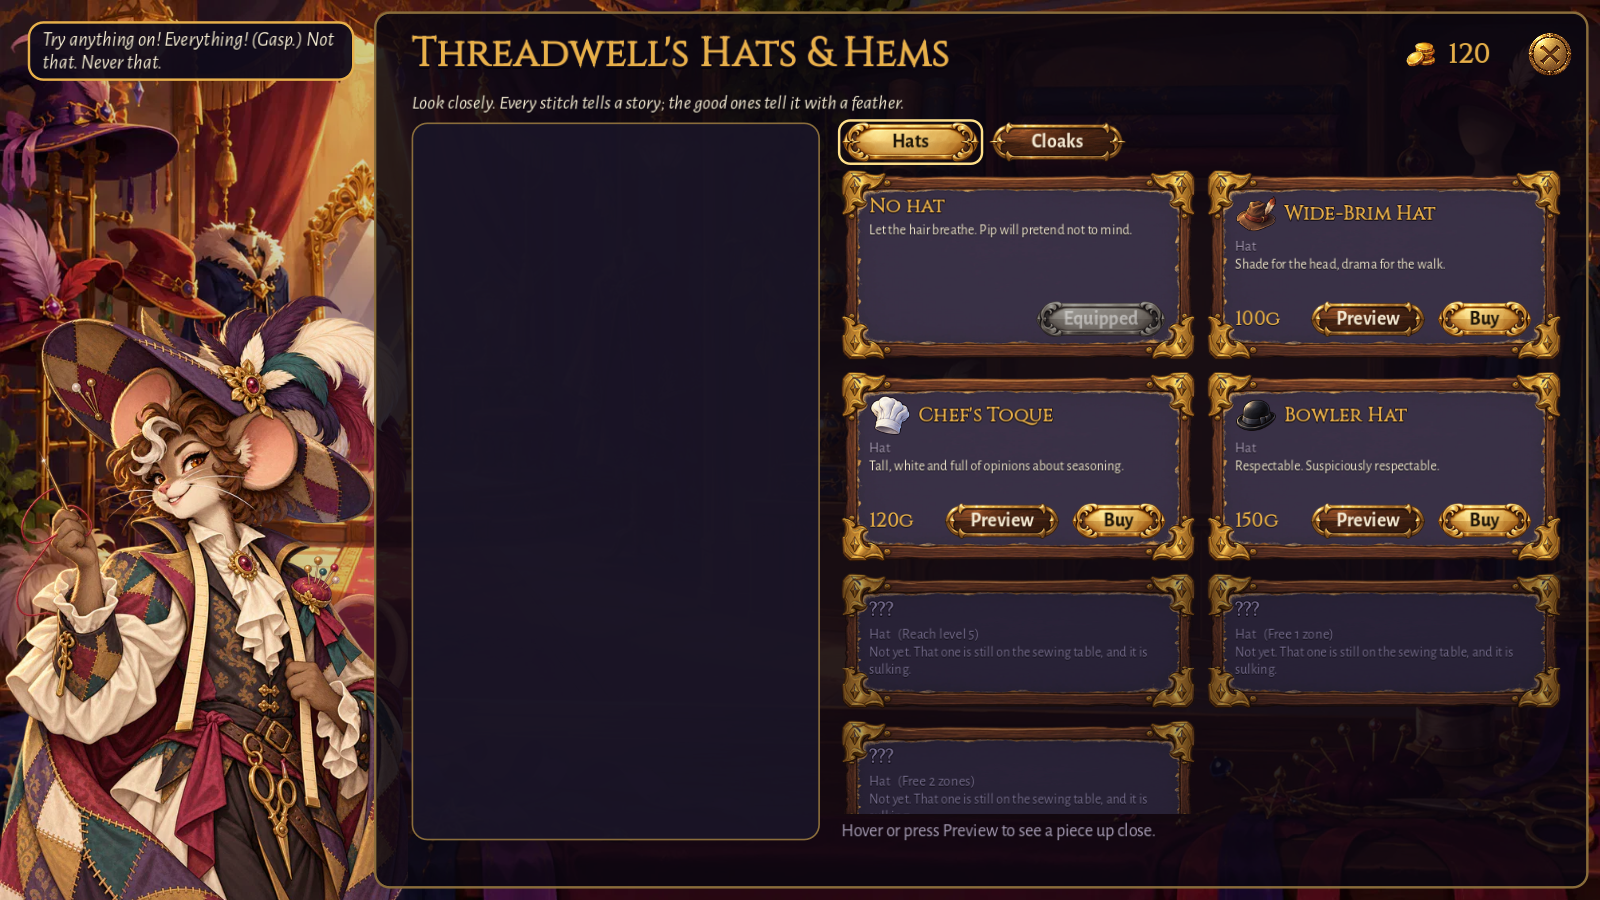
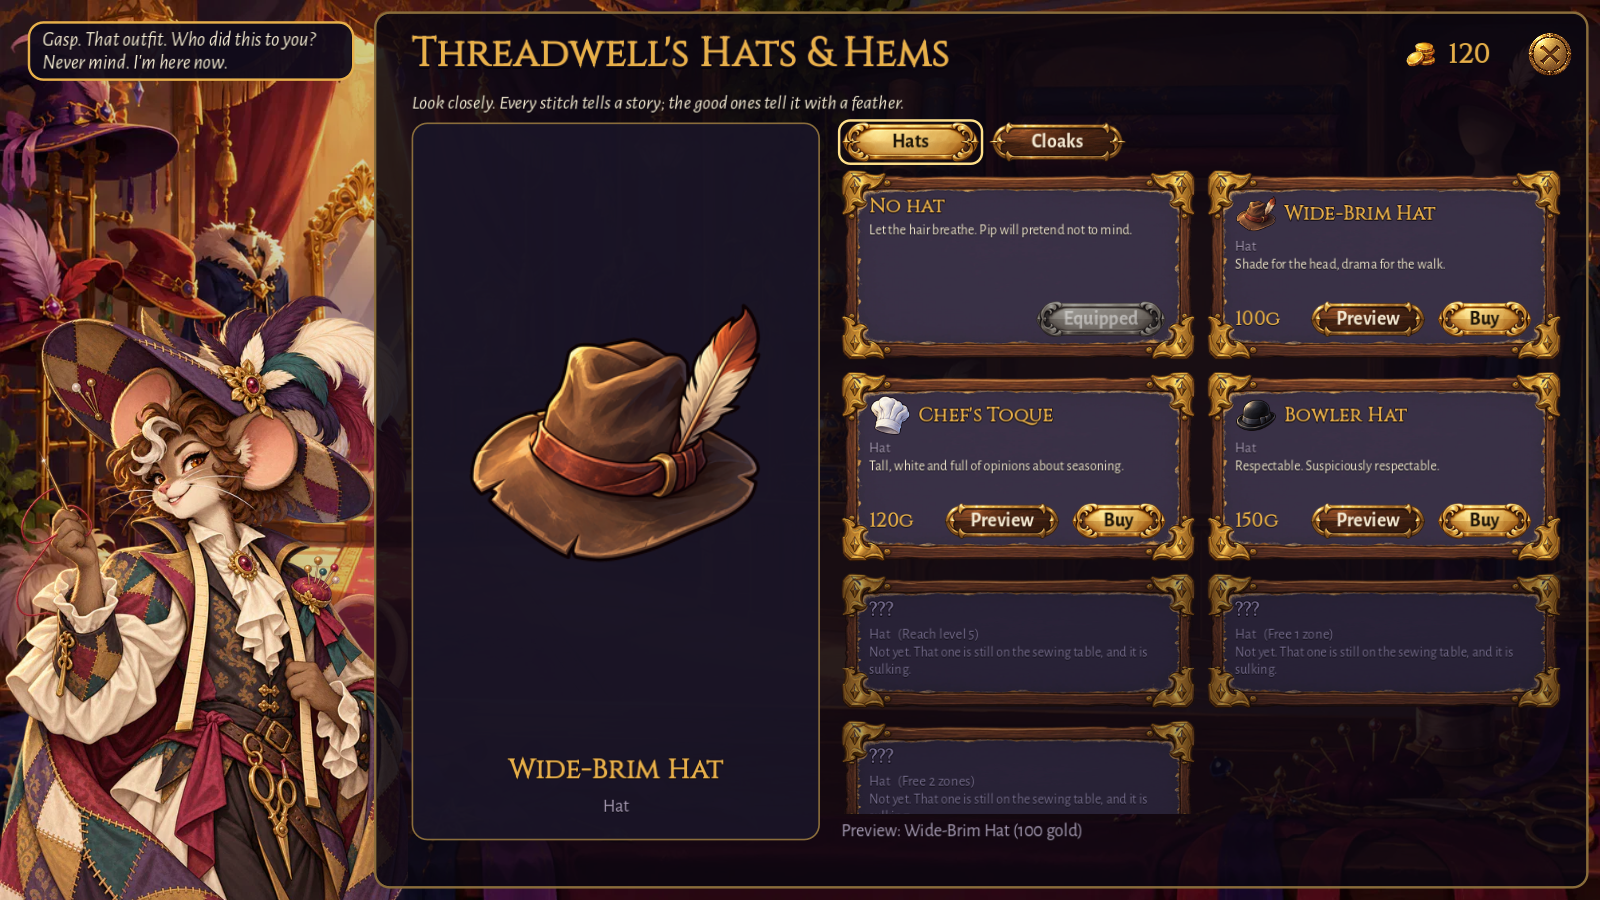
Fix pass Nov 4, Finish: critic runs, Pip preview never empty, report, inbox (13), progress

diff --git a/docs/overnight_report.md b/docs/overnight_report.md
@@ -1,0 +1,95 @@
+# Fix pass Nov 4 - report
+
+Brief: `docs/prompts/fixes_nov4.md` (playtest feedback round 1). Tag `pre-fixes-nov4`; commits `1b59529a..HEAD` on main.
+Decisions you may want to change: `docs/overnight_inbox.md`, section "Fix pass Nov 4". Shots: `docs/overnight_shots/nov4/`.
+Previous report: `docs/overnight/nov4/overnight_report_overnight_nov3.md`.
+
+**Tests:** full GUT suite green, run in foreground chunks (core 1,630, ui 221, world 465 + 1 old "did not assert", audio 92, root 299).
+**Export 0.5.4: not done** - the Godot editor (`title.tscn`) is open and C: has 1.4 GB free; `tools/export_windows.sh` stops on both
+(it needs Godot closed and ~2.5 GB). The version is bumped to 0.5.4 everywhere (project, export presets); see "To finish" below.
+
+## Part 1 - Battle rules
+
+| # | What | Done |
+|---|---|---|
+| 1.1 | **Peek is broken** | Peek was resolved by the engine on its own (it sorted the cards silently), so the player never chose. Now a Peek on your own turn **waits for you**: `GameState.peek_requests`, `peek_cards()`, `resolve_peek()`, `GameAction.PEEK`; the ability pauses and the rest of it ("then draw a card") runs after your choice (`AbilityRunner.PEEK_WAIT`). New `PeekPanel`: all N cards together (top card first), **Top / Bottom** per card, the first card sent Top is drawn next ("Top #1", "Top #2"), Reset, Done. Covers every Peek card: Amuse-Bouche, Consult the Cookbook, Sous Chef, Courier Pigeon, Cartographer's Table, Banquet Hall, Spice Bazaar. The AI and the look-ahead copies keep the automatic choice. Verified in a live duel (critic run: the card picked Top #1 was the one drawn). Tests `tests/core/game/test_peek_choice.gd` (6). |
+| 1.2 | **"Fresh Stitches"** | Renamed everywhere: the card field (`CardInstance.fresh_stitches`), glossary, keyword tooltip, the battle tooltip entry, design docs, tests and tools. Reminder `KeywordInfo.FRESH_STITCHES_REMINDER` = "Fresh Stitches: can't attack the turn it enters play." (shown when you click a unit that can't attack yet). Hustle units ignore it as before. The dialogue CSVs held the old phrase only in archived passes (`docs/dialogue/chatgpt_pass_oct21/`), not in game text. |
+| 1.3 | **Pre-placed enemy units** | A unit on the table before the duel keeps Fresh Stitches through its side's first turn (`CardInstance.placed_before_duel`, set by `GameState.mark_placed_before_duel` after the start-of-duel effects). Encounters: **Trophy Hall Honor Guard** (1 Militia), **The Doppelganger** (Sashimi Weenie, both rule sets), **Royal Staircase Guard** (3 Militia), **Colonel Casserole** (Sashimi Weenie), **Primm - Standardization** (4 Militia), and the **Arena presets** with enemy units (3 challenges). Units a setup makes ready on purpose (Flex, Elowen, the sim's allies) stay ready. |
+| 1.4 | **Endless Buffet buff** | **Cause:** the Colonel's fight had two rules both named "Field Rations" - the starting Weenie and a hidden "+1 attack" - and the badge row merges same-named rules into one badge, so only the Weenie showed while his units got zone +1/+1 plus +1/+0 = **+2/+1**. Not a double application (checked: Well Fed is on each seat exactly once). The hidden +1 attack is removed. **Well Fed is now +0/+1** (`ZoneEffects`), zone-wide as designed: both seats' Gourmand units, in every Buffet fight. The chip, tooltips and pre-fight text are generated from the modifier ("Gourmand units get +1 defense."); the flavour line now reads "A full belly is hard to knock over." Tests run every Buffet encounter of the catalogue plus the real gate battle. |
+| 1.5 | **Casserole didn't attack** | **Cause:** in the live game the attack search has a wall-clock budget (half of 500 ms). It scored "no attack" first, and on a slower machine the clock ran out after that one candidate, so a clearly winning swing was never weighed (the sims, which have no clock, always attacked - a probe over 24 Casserole games found no missed lethal there). Fix in `AICombat`: the attacking sets come first, "no attack" fifth, and at least 5 candidates are always scored (`MIN_LIVE_CANDIDATES`); the opponent's block model is node-limited only (a starved model predicted no blocks). Same floor for the AI's blocks. All bosses use this code. Fresh Stitches flags and the buff were checked as causes and ruled out. Regression tests `tests/core/ai/test_ai_attacks_when_ahead.gd` (6 boards x 6 boss signatures, plus a clock-starved search that fails on the old code). Tool `tools/attack_when_ahead_probe.gd`. |
+| 1.6 | **Boss blockers** | **Cause:** the Colonel's gate flag was only set when the Buffet scene was built; a roamer/gate duel returns to the **parked** scene (no rebuild), so after any win - dev or normal - he stood in the way until the next visit. Now the win sets the blocker flag at once (`BossBlockers`, `GameSession.resolve_zone_battle`), `EventBus.flag_set` announces it, and `ZoneScene.sync_world_flags()` runs on the return to a parked scene and on every flag change. Every blocker checked: the **Colonel** (now moves), **Captain Spotless's gate** (had the same bug: the barrier was only lifted on a rebuild - fixed the same way), the four **hub gatekeepers** (town is rebuilt after those duels; flag-driven already). Verified in play with the dev win. |
+
+## Part 2 - Economy
+
+Cards: **Common 100** (a General Pack's price), Uncommon 200, Epic 500, Legendary 1000 (ratio 1 : 2 : 5 : 10 kept; was 300 / 600 / 1500 / 3000).
+Equipment is now the saving goal: Common 1200-1800, Uncommon 2000-3200, Epic 3500-5500 by tier (was 60-600).
+
+| Shop piece | Before | After |
+|---|---:|---:|
+| Cardboard Cuirass, Saucepan Helmet, Extra Pocket, Traveler's Boots (Common t1) | 60 | 1200 |
+| Flip-Flops of Fortitude (Common t2) | 90 | 1400 |
+| Wicked Dagger, Solid Plate, X-Ray Goggles (Uncommon t1) | 120 | 2000 |
+| Protein Shaker Bandolier, Notarized Seal, Dog-Eared Bookmark (Uncommon t2) | 180 | 2400 |
+| Cheater's Dice, Hover Boots, Thorned Loincloth, Sucker Punch Mitts (Uncommon t3) | 240 | 2800 |
+| Flamethrower, Blade of Earned Reputation, Big Brain Beret, Grandma's Rolling Pin (Epic t3) | 450 | 4500 |
+
+The gold study (re-run, new section in `docs/balance/gold_economy_nov3.md`): a no-grind player earns **16,029** gold; after 7 item charges,
+3 hats and the hub fees **14,704** is left for cards and gear. The 20-card mix costs 4,700, leaving 10,004: the **4 essential pieces**
+(8,900) or **6 cheaper ones** (8,200) - inside the 4-6 target. Buying only the essentials leaves room for ~25 cards; no gear at all, ~63.
+Grinding (12 repeat fights an hour): **8-17 Commons or 3.6-7 average cards per hour** in the Path zones and the Capital (3 Commons an hour
+in Crosspath's outskirts); a tier-1 Common piece of gear is about an hour of grinding.
+
+## Part 3 - UI and shops
+
+- **Level-up popup:** no level-up mentions equipment any more - the rarity-cap lines ("Wear up to 1 Epic piece of equipment", the "1
+  equipment slot" the Level 5 popup showed) are gone from the popup and the reward docs, and five headlines that talked about gear are new
+  (L5 "Getting the hang of this", L19 "Seasoned traveler", L22 "Epics up to 3 copies, and a Gilded Pack", L25 "A cape worth swishing", L28
+  "Room for one more card"). The item slots at 6 and 12 still show. Every level 2-30 checked by a test. (The rarity caps still apply; inbox 6.)
+- **Character page:** each slot is placed from a point on the silhouette (`CharacterScreen.SILHOUETTE_POINTS`, read off the poster art)
+  through the poster rect, so it stays on the figure at any size: helm over the head, armor mid-chest, weapon and relic on the hands, boots
+  between the feet; slots 124 -> 110 px so the Helm caption clears the Armor slot. Before/after at 1280x720 and 1920x1080:
+  `part3_character_before_*.png`, `part3_character_after_*.png`.
+- **Pip's shop:** "Plain Cloak" everywhere (the shop tile, the Wardrobe). **Hats** and **Cloaks** tabs. The **12 cloak dyes are back** in
+  the Cloaks tab, each sold like a piece (Preview on the hero in the Plain Cloak, Buy 60 gold, Equip); owned dyes are saved, an old save keeps
+  the dye it wears, the Wardrobe picks among owned dyes. The preview never opens empty. **Dye in battle:** the hero was never drawn in battle
+  (a pointy-hat glyph); your plate now shows the dressed hero (`HeroBust`: hat, cloak set, dye). Checked in the world (crimson cloak), in
+  Pip's preview and on the battle plate.
+- **White arches:** they were **Mirepoix's cloches** (`VendorFx.Cloche`, a translucent silver dome drawn over every card, lifting on hover).
+  Removed, with the two other overlays on card faces: Gristle's tin-can front (covered the rules text) and Fig Sly's compartment doors on
+  cards. Benchley's tubs and Gristle's cans now sit under the cards. Checked every card shop (Sable, Benchley, Ledgerbone, Mirepoix,
+  Gristle, Fig Sly) and the Collection Book, Deck Station and card pick; no arches anywhere (`part3_shop_*.png`, `part3_grid_*.png`).
+  Mirepoix's two lines about lids were rewritten.
+
+## Part 4 - World
+
+- **Crosspath townsfolk:** the "Townsfolk" by the trainer's lamp post (and the one in the market) was the Gainlands gym attendant in gym kit;
+  both are mole farm hands now (the Dump's extra set, own tints), the only non-story standing set left (every other painted set is a named
+  character). No idle wander: only the badger and the Capital citizen have walk cycles (inbox 7). `part4_townsfolk_lamp_post.png`.
+- **Chests x1.25** in every zone, the town and the starting forest (`ChestKit.SCALE` 0.28125), with the footprint (0.18 -> 0.225 m) and the
+  reach to open (1.5 -> 1.6 m); the Capital's chests are solid now like everyone else's. Every chest checked for open ground beside it; the
+  walkability floods to every chest still pass. The ninja's giant chest keeps its size.
+- **Buffet footsteps:** the paved cracker roads squelched because the Buffet's footsteps never looked at the roads; they now step as
+  **cobble** (the same `path_weight` that paints them), the Grand Pantry's checkered plaza as **tile** (it knocked like wood, from the old
+  lazy-susan hub), the meadow still squelches. Other zones checked: the **Dump's paths** squelched like mud through the wetlands - now dirt;
+  Gainlands, D.N.A., Capital, town and forest map their paths correctly.
+- **Buffet top-left "stairs":** three pie-crust slabs = one of the **Potato Peak's decorative "biscuit bridges"** over its gravy pool
+  (`BuffetLandmarks._potato_peak`): no script, no collision, part of a backdrop landmark; the north one sat on the table by the Cheddar
+  Cliffs and read as a stair to nowhere. All three removed; nothing referenced them. `part4_buffet_stairs_before.png` / `_after_*.png`.
+
+## Critic play (from the main repo at HEAD)
+
+No room for a worktree (1.4 GB free; a checkout is ~1.6 GB), so the runs used the main repo at the committed HEAD, untouched meanwhile.
+Scripts `docs/review/play_scripts/critic_nov4_*.txt` (new driver commands `dev hand`, `dev energy`, `dev play`).
+
+- **Peek** (a live duel, Consult the Cookbook): panel, picks, Done; the Top #1 card was drawn, the spell went to the Refuse Pile. OK.
+- **Colonel Casserole, played out** (pilot, level 12 starter deck): his Weenie showed 1/2 with Fresh Stitches (Zz) on turn 1; he attacked
+  every turn he could ("attacks with Sashimi Weenie and 5 more"); the pilot lost (it is a weak player). OK.
+- **Colonel Casserole, dev win:** back in the zone the Colonel had stepped off the road, prompt "Chat with Colonel Casserole". OK.
+- **Card shop** (Sable): Commons at 100, no overlays. **Pip:** tabs, Plain Cloak, dye tiles, dye preview on the hero; found the preview panel
+  empty on opening - fixed (the tab's first piece shows). **Character page:** slots on the silhouette, pill centred. OK.
+
+## To finish (needs you)
+
+1. Close the Godot editor and free about 1 GB on C: (e.g. the v0.5.2 zip in `builds/`, 600 MB, or old play runs in `_screenshots/play/`, 377 MB -
+   I deleted nothing).
+2. `bash tools/export_windows.sh` (version 0.5.4 is already set), then the release smoke as in `docs/release/how_to_build.md`.

diff --git a/docs/overnight_inbox.md b/docs/overnight_inbox.md
@@ -21,6 +21,20 @@ Brief: `docs/prompts/fixes_nov4.md`. Report: `docs/overnight_report.md`. Tag `pr
 5. **Peek panel.** Shows all N cards together (Peek 1 is the same panel with one card); Top / Bottom per card, the first card sent Top is
    drawn next, Reset and Done. A Peek on the opponent's turn (none of the current cards does that) and every AI Peek still resolve by
    themselves.
+6. **Equipment rarity caps still apply, unannounced.** The level-ups no longer mention equipment, but `EquipCaps` (no Epic piece before
+   level 5, 2 at 13, a Legendary from 22...) still limits what can be worn; it explains itself when you try to equip. With gear now costing
+   1,200-5,500 (4-6 pieces a playthrough) the caps barely bite. Drop them (everyone may wear what they bought)?
+7. **Townsfolk.** The gym attendant's two spots are mole farm hands; four standing townsfolk are now moles in four tints. Every other painted
+   set is a named character, and only the badger and the Capital citizen walk, so no idle wander. A generic townsfolk set (idle + walk) on the
+   art list would fix both.
+8. **Dyes cost 60 gold each** (they were free in the Wardrobe). An old save keeps the dye it is wearing; the rest are bought once at Pip's.
+   Say if they should be free (Equip without Buy) or cheaper.
+9. **Fig Sly's item compartments stay** (his items, not cards, hide behind little doors until hovered); only the card overlays were removed.
+10. **Economy design target 2** ("the stock a player wants at a stop costs 1.5-2x the gold on hand") no longer holds for gear - by design now
+    (a piece is a saving goal). Packs were not repriced: a General Pack (100) equals a Common single, a Path Pack is 150.
+11. **Export 0.5.4 not done:** the editor is open and C: has 1.4 GB free (needs ~2.5 GB). Version 0.5.4 is set; nothing was deleted.
+12. **The critic played from the main repo** at HEAD (no disk for a worktree), short scripted runs instead of a no-context critic agent.
+13. **The ninja's giant chest keeps its size** (it is already giant); only the hidden chests grew.
 
 ## Overnight Nov 3-4 - yours to decide (the safest choice was taken)
 

diff --git a/docs/progress.md b/docs/progress.md
@@ -3692,3 +3692,15 @@ Suggestions only (dialogue freeze kept: no game text changed). Report `docs/dial
 - Oct 31 evening (designer's answers, `docs/dialogue/fixes_oct31/README.md`): rewrites typed over Current line are applied by the importer
   (priority New line > accepted critic row > typed over); sheet tab "Critic Oct 31" + lookup columns; Model Room, Moss's bridge, Rip 212,
   Reserve Guard, wheel names, parlour, freed Plume, Lab reveal, Grand Chef, Elowen lines; tri-Path crafting in the Alchemist; export labels.
+
+## Fix pass Nov 4 (playtest feedback round 1) - done (export pending)
+
+Brief `docs/prompts/fixes_nov4.md`, report `docs/overnight_report.md`, tag `pre-fixes-nov4`.
+- Battle: interactive Peek (`peek_requests`, `GameAction.PEEK`, `PeekPanel`); "Fresh Stitches" (was summoning sickness); units on the table
+  before the duel keep Fresh Stitches on their side's first turn; Well Fed +0/+1 (the Colonel's hidden +1 attack gone); the AI's attack and
+  block searches always weigh 5 candidates; blockers step aside from their flag (`BossBlockers`, `ZoneScene.sync_world_flags`).
+- Economy: cards 100 / 200 / 500 / 1000, gear 1,200-5,500 (4-6 pieces per no-grind game; study in `docs/balance/gold_economy_nov3.md`).
+- UI: no equipment lines at level-ups, Character slots on the silhouette, Pip's Hats/Cloaks tabs + Plain Cloak + dyes for sale, `HeroBust`
+  on your battle plate, no overlays on shop cards.
+- World: mole farm hands for the gym attendant, chests x1.25 (`ChestKit.SCALE`), Buffet roads cobble / plaza tile, Dump paths dirt, the
+  Potato Peak's biscuit bridges removed. Version 0.5.4 (export blocked: editor open, disk).

diff --git a/docs/loop_state.md b/docs/loop_state.md
@@ -12,4 +12,4 @@ At start: C: 1.6 GB free; the Godot editor (title.tscn) is open (left running - 
 | 2 | Economy (card + equipment prices, gold study) | done: cards 100/200/500/1000, gear 1200-5500 (4 essential or 6 cheapest pieces), study section in gold_economy_nov3.md |
 | 3 | UI + shops (level-up popup, Character icons, Pip, white arches) | done: no equipment lines at level-ups, slots on the silhouette (SILHOUETTE_POINTS), Pip tabs + Plain Cloak + dyes for sale + HeroBust in battle, cloches/cans/doors off the cards |
 | 4 | World (townsfolk, chests x1.25, Buffet footsteps, Buffet stairs) | done: mole farm hands for the gym attendant, ChestKit.SCALE/FOOTPRINT/REACH, Buffet roads cobble + plaza tile, Dump paths dirt, Potato Peak biscuit bridges removed |
-| Finish | GUT, critic, report, export 0.5.4, smoke, push | in progress |
+| Finish | GUT, critic, report, export 0.5.4, smoke, push | GUT green; critic (4 scripted runs from the main repo) + Pip preview fix; report + inbox (13 items); version 0.5.4; EXPORT BLOCKED (editor open, 1.4 GB disk) - release smoke not run |
